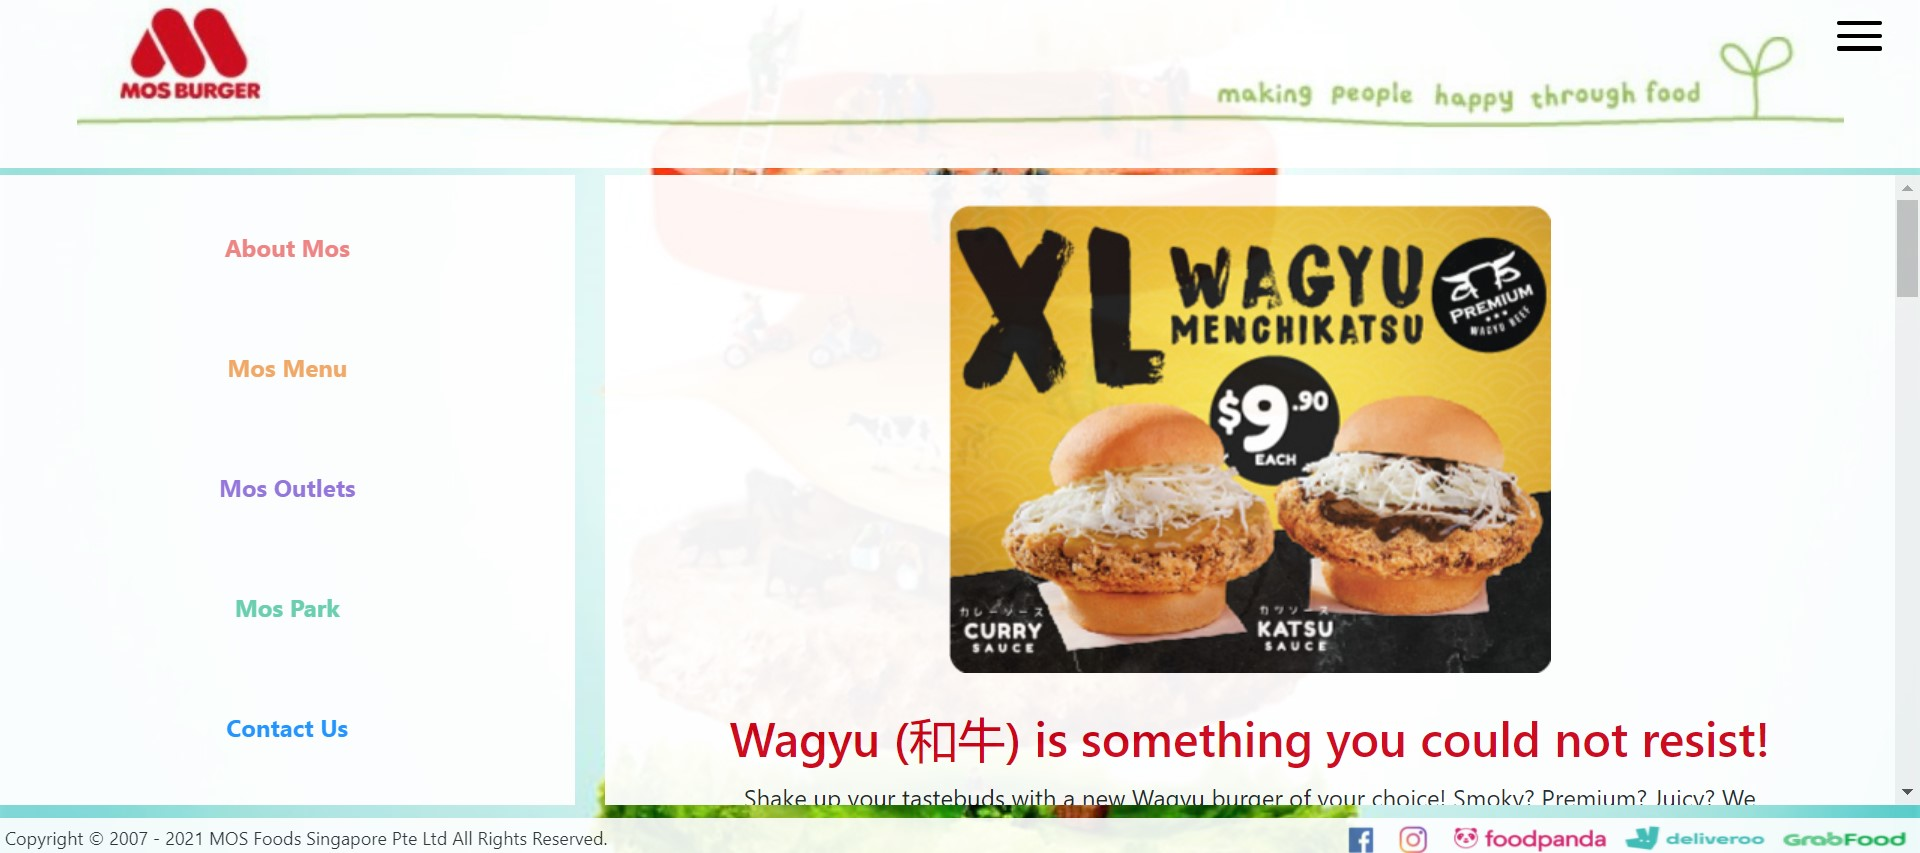
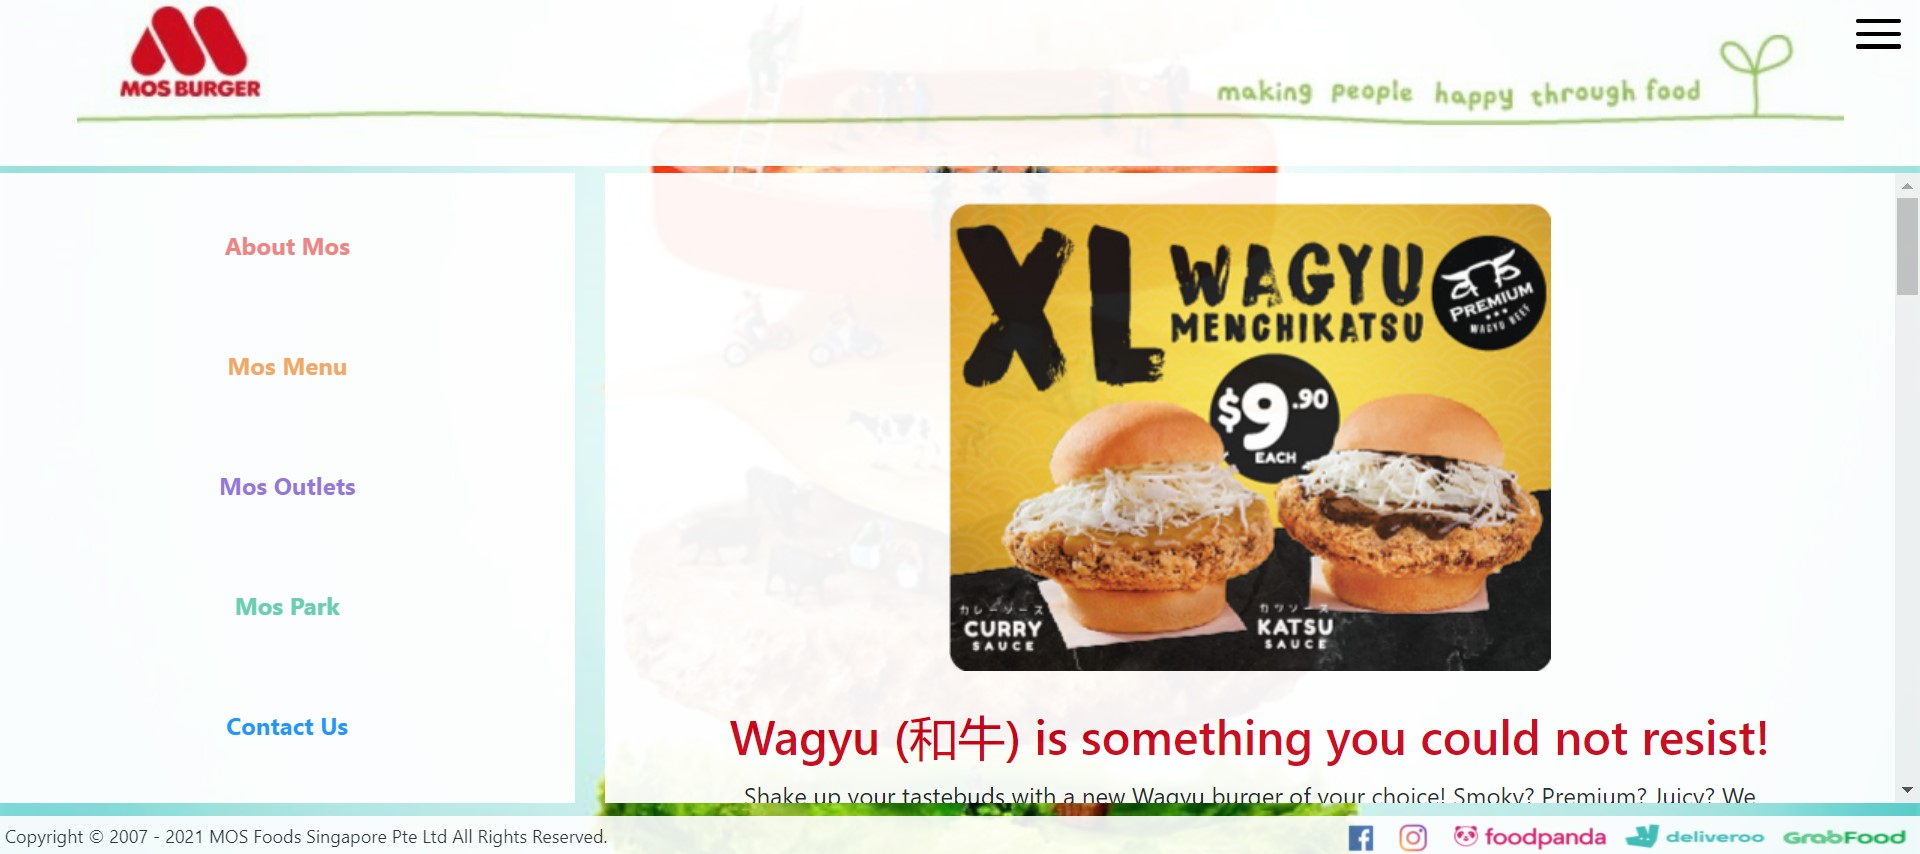
updated outcome image

diff --git a/style.css b/style.css
@@ -41,7 +41,7 @@ body {
 .toggle-button {
     position: absolute;
     top: 3%;
-    right: 2%;
+    right: 1%;
     display: flex;
     flex-direction: column;
     justify-content: space-between;
